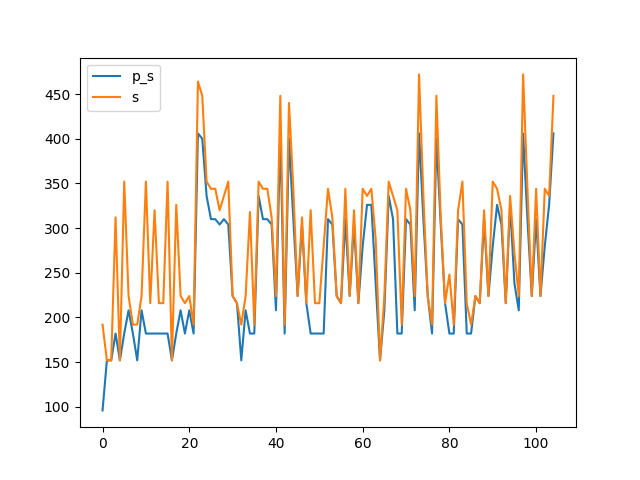
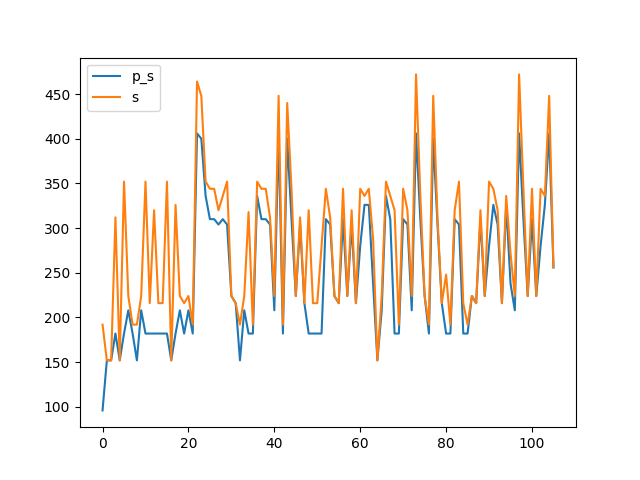
0x0069

diff --git a/benchmark.md b/benchmark.md
@@ -208,16 +208,18 @@ Synthesising 0x0067 pexact:326 r=5 exact:336 r=4
 
 Synthesising 0x0068 pexact:406 r=6 exact:448 r=5
 
+Synthesising 0x0069 pexact:256 r=3 exact:256 r=3
+
 ```mermaid
 xychart-beta
     title "Comparison powertwoexact twoexact"
-    x-axis [0, 1, 2, 3, 4, 5, 6, 7, 8, 9, 10, 11, 12, 13, 14, 15, 16, 17, 18, 19, 20, 21, 22, 23, 24, 25, 26, 27, 28, 29, 30, 31, 32, 33, 34, 35, 36, 37, 38, 39, 40, 41, 42, 43, 44, 45, 46, 47, 48, 49, 50, 51, 52, 53, 54, 55, 56, 57, 58, 59, 60, 61, 62, 63, 64, 65, 66, 67, 68, 69, 70, 71, 72, 73, 74, 75, 76, 77, 78, 79, 80, 81, 82, 83, 84, 85, 86, 87, 88, 89, 90, 91, 92, 93, 94, 95, 96, 97, 98, 99, 100, 101, 102, 103, 104]
+    x-axis [0, 1, 2, 3, 4, 5, 6, 7, 8, 9, 10, 11, 12, 13, 14, 15, 16, 17, 18, 19, 20, 21, 22, 23, 24, 25, 26, 27, 28, 29, 30, 31, 32, 33, 34, 35, 36, 37, 38, 39, 40, 41, 42, 43, 44, 45, 46, 47, 48, 49, 50, 51, 52, 53, 54, 55, 56, 57, 58, 59, 60, 61, 62, 63, 64, 65, 66, 67, 68, 69, 70, 71, 72, 73, 74, 75, 76, 77, 78, 79, 80, 81, 82, 83, 84, 85, 86, 87, 88, 89, 90, 91, 92, 93, 94, 95, 96, 97, 98, 99, 100, 101, 102, 103, 104, 105]
     y-axis "Switching Activity" 0-->472
-    line [96, 152, 152, 182, 152, 182, 208, 182, 152, 208, 182, 182, 182, 182, 182, 182, 152, 182, 208, 182, 208, 182, 406, 400, 336, 310, 310, 304, 310, 304, 224, 216, 152, 208, 182, 182, 336, 310, 310, 304, 208, 406, 182, 400, 310, 224, 304, 216, 182, 182, 182, 182, 310, 304, 224, 216, 310, 224, 304, 216, 280, 326, 326, 238, 152, 208, 336, 310, 182, 182, 310, 304, 208, 406, 310, 224, 182, 400, 304, 216, 182, 182, 310, 304, 182, 182, 224, 216, 310, 224, 280, 326, 304, 216, 326, 238, 208, 406, 310, 224, 310, 224, 280, 326, 406]
-    line [192, 152, 152, 312, 152, 352, 224, 192, 192, 224, 352, 216, 320, 216, 216, 352, 152, 326, 224, 216, 224, 192, 464, 448, 352, 344, 344, 320, 336, 352, 224, 216, 192, 224, 318, 192, 352, 344, 344, 312, 224, 448, 192, 440, 344, 224, 312, 216, 320, 216, 216, 280, 344, 312, 224, 216, 344, 224, 320, 216, 344, 336, 344, 288, 152, 224, 352, 336, 320, 192, 344, 320, 224, 472, 336, 224, 192, 448, 312, 216, 248, 192, 320, 352, 216, 192, 224, 216, 320, 224, 352, 344, 320, 216, 336, 272, 224, 472, 344, 224, 344, 224, 344, 336, 448]
-    line [249.2, 249.2, 249.2, 249.2, 249.2, 249.2, 249.2, 249.2, 249.2, 249.2, 249.2, 249.2, 249.2, 249.2, 249.2, 249.2, 249.2, 249.2, 249.2, 249.2, 249.2, 249.2, 249.2, 249.2, 249.2, 249.2, 249.2, 249.2, 249.2, 249.2, 249.2, 249.2, 249.2, 249.2, 249.2, 249.2, 249.2, 249.2, 249.2, 249.2, 249.2, 249.2, 249.2, 249.2, 249.2, 249.2, 249.2, 249.2, 249.2, 249.2, 249.2, 249.2, 249.2, 249.2, 249.2, 249.2, 249.2, 249.2, 249.2, 249.2, 249.2, 249.2, 249.2, 249.2, 249.2, 249.2, 249.2, 249.2, 249.2, 249.2, 249.2, 249.2, 249.2, 249.2, 249.2, 249.2, 249.2, 249.2, 249.2, 249.2, 249.2, 249.2, 249.2, 249.2, 249.2, 249.2, 249.2, 249.2, 249.2, 249.2, 249.2, 249.2, 249.2, 249.2, 249.2, 249.2, 249.2, 249.2, 249.2, 249.2, 249.2, 249.2, 249.2, 249.2, 249.2]
-    line [283.23809523809524, 283.23809523809524, 283.23809523809524, 283.23809523809524, 283.23809523809524, 283.23809523809524, 283.23809523809524, 283.23809523809524, 283.23809523809524, 283.23809523809524, 283.23809523809524, 283.23809523809524, 283.23809523809524, 283.23809523809524, 283.23809523809524, 283.23809523809524, 283.23809523809524, 283.23809523809524, 283.23809523809524, 283.23809523809524, 283.23809523809524, 283.23809523809524, 283.23809523809524, 283.23809523809524, 283.23809523809524, 283.23809523809524, 283.23809523809524, 283.23809523809524, 283.23809523809524, 283.23809523809524, 283.23809523809524, 283.23809523809524, 283.23809523809524, 283.23809523809524, 283.23809523809524, 283.23809523809524, 283.23809523809524, 283.23809523809524, 283.23809523809524, 283.23809523809524, 283.23809523809524, 283.23809523809524, 283.23809523809524, 283.23809523809524, 283.23809523809524, 283.23809523809524, 283.23809523809524, 283.23809523809524, 283.23809523809524, 283.23809523809524, 283.23809523809524, 283.23809523809524, 283.23809523809524, 283.23809523809524, 283.23809523809524, 283.23809523809524, 283.23809523809524, 283.23809523809524, 283.23809523809524, 283.23809523809524, 283.23809523809524, 283.23809523809524, 283.23809523809524, 283.23809523809524, 283.23809523809524, 283.23809523809524, 283.23809523809524, 283.23809523809524, 283.23809523809524, 283.23809523809524, 283.23809523809524, 283.23809523809524, 283.23809523809524, 283.23809523809524, 283.23809523809524, 283.23809523809524, 283.23809523809524, 283.23809523809524, 283.23809523809524, 283.23809523809524, 283.23809523809524, 283.23809523809524, 283.23809523809524, 283.23809523809524, 283.23809523809524, 283.23809523809524, 283.23809523809524, 283.23809523809524, 283.23809523809524, 283.23809523809524, 283.23809523809524, 283.23809523809524, 283.23809523809524, 283.23809523809524, 283.23809523809524, 283.23809523809524, 283.23809523809524, 283.23809523809524, 283.23809523809524, 283.23809523809524, 283.23809523809524, 283.23809523809524, 283.23809523809524, 283.23809523809524, 283.23809523809524]
-    bar [80, 60, 60, 80, 60, 80, 80, 80, 60, 80, 80, 80, 80, 80, 80, 80, 60, 80, 80, 80, 80, 80, 120, 120, 100, 100, 100, 100, 100, 100, 60, 60, 60, 80, 80, 80, 100, 100, 100, 100, 80, 120, 80, 120, 100, 60, 100, 60, 80, 80, 80, 80, 100, 100, 60, 60, 100, 60, 100, 60, 80, 100, 100, 100, 60, 80, 100, 100, 80, 80, 100, 100, 80, 120, 100, 60, 80, 120, 100, 60, 80, 80, 100, 100, 80, 80, 60, 60, 100, 60, 80, 100, 100, 60, 100, 100, 80, 120, 100, 60, 100, 60, 80, 100, 120]
-    bar [80, 60, 60, 80, 60, 80, 60, 60, 60, 60, 80, 60, 80, 60, 60, 80, 60, 80, 60, 60, 60, 60, 100, 100, 80, 80, 80, 80, 80, 80, 60, 60, 60, 60, 80, 60, 80, 80, 80, 80, 60, 100, 60, 100, 80, 60, 80, 60, 80, 60, 60, 80, 80, 80, 60, 60, 80, 60, 80, 60, 80, 80, 80, 80, 60, 60, 80, 80, 80, 60, 80, 80, 60, 100, 80, 60, 60, 100, 80, 60, 80, 60, 80, 80, 60, 80, 60, 60, 80, 60, 80, 80, 80, 60, 80, 80, 60, 100, 80, 60, 80, 60, 80, 80, 100]
+    line [96, 152, 152, 182, 152, 182, 208, 182, 152, 208, 182, 182, 182, 182, 182, 182, 152, 182, 208, 182, 208, 182, 406, 400, 336, 310, 310, 304, 310, 304, 224, 216, 152, 208, 182, 182, 336, 310, 310, 304, 208, 406, 182, 400, 310, 224, 304, 216, 182, 182, 182, 182, 310, 304, 224, 216, 310, 224, 304, 216, 280, 326, 326, 238, 152, 208, 336, 310, 182, 182, 310, 304, 208, 406, 310, 224, 182, 400, 304, 216, 182, 182, 310, 304, 182, 182, 224, 216, 310, 224, 280, 326, 304, 216, 326, 238, 208, 406, 310, 224, 310, 224, 280, 326, 406, 256]
+    line [192, 152, 152, 312, 152, 352, 224, 192, 192, 224, 352, 216, 320, 216, 216, 352, 152, 326, 224, 216, 224, 192, 464, 448, 352, 344, 344, 320, 336, 352, 224, 216, 192, 224, 318, 192, 352, 344, 344, 312, 224, 448, 192, 440, 344, 224, 312, 216, 320, 216, 216, 280, 344, 312, 224, 216, 344, 224, 320, 216, 344, 336, 344, 288, 152, 224, 352, 336, 320, 192, 344, 320, 224, 472, 336, 224, 192, 448, 312, 216, 248, 192, 320, 352, 216, 192, 224, 216, 320, 224, 352, 344, 320, 216, 336, 272, 224, 472, 344, 224, 344, 224, 344, 336, 448, 256]
+    line [249.26415094339623, 249.26415094339623, 249.26415094339623, 249.26415094339623, 249.26415094339623, 249.26415094339623, 249.26415094339623, 249.26415094339623, 249.26415094339623, 249.26415094339623, 249.26415094339623, 249.26415094339623, 249.26415094339623, 249.26415094339623, 249.26415094339623, 249.26415094339623, 249.26415094339623, 249.26415094339623, 249.26415094339623, 249.26415094339623, 249.26415094339623, 249.26415094339623, 249.26415094339623, 249.26415094339623, 249.26415094339623, 249.26415094339623, 249.26415094339623, 249.26415094339623, 249.26415094339623, 249.26415094339623, 249.26415094339623, 249.26415094339623, 249.26415094339623, 249.26415094339623, 249.26415094339623, 249.26415094339623, 249.26415094339623, 249.26415094339623, 249.26415094339623, 249.26415094339623, 249.26415094339623, 249.26415094339623, 249.26415094339623, 249.26415094339623, 249.26415094339623, 249.26415094339623, 249.26415094339623, 249.26415094339623, 249.26415094339623, 249.26415094339623, 249.26415094339623, 249.26415094339623, 249.26415094339623, 249.26415094339623, 249.26415094339623, 249.26415094339623, 249.26415094339623, 249.26415094339623, 249.26415094339623, 249.26415094339623, 249.26415094339623, 249.26415094339623, 249.26415094339623, 249.26415094339623, 249.26415094339623, 249.26415094339623, 249.26415094339623, 249.26415094339623, 249.26415094339623, 249.26415094339623, 249.26415094339623, 249.26415094339623, 249.26415094339623, 249.26415094339623, 249.26415094339623, 249.26415094339623, 249.26415094339623, 249.26415094339623, 249.26415094339623, 249.26415094339623, 249.26415094339623, 249.26415094339623, 249.26415094339623, 249.26415094339623, 249.26415094339623, 249.26415094339623, 249.26415094339623, 249.26415094339623, 249.26415094339623, 249.26415094339623, 249.26415094339623, 249.26415094339623, 249.26415094339623, 249.26415094339623, 249.26415094339623, 249.26415094339623, 249.26415094339623, 249.26415094339623, 249.26415094339623, 249.26415094339623, 249.26415094339623, 249.26415094339623, 249.26415094339623, 249.26415094339623, 249.26415094339623, 249.26415094339623]
+    line [282.9811320754717, 282.9811320754717, 282.9811320754717, 282.9811320754717, 282.9811320754717, 282.9811320754717, 282.9811320754717, 282.9811320754717, 282.9811320754717, 282.9811320754717, 282.9811320754717, 282.9811320754717, 282.9811320754717, 282.9811320754717, 282.9811320754717, 282.9811320754717, 282.9811320754717, 282.9811320754717, 282.9811320754717, 282.9811320754717, 282.9811320754717, 282.9811320754717, 282.9811320754717, 282.9811320754717, 282.9811320754717, 282.9811320754717, 282.9811320754717, 282.9811320754717, 282.9811320754717, 282.9811320754717, 282.9811320754717, 282.9811320754717, 282.9811320754717, 282.9811320754717, 282.9811320754717, 282.9811320754717, 282.9811320754717, 282.9811320754717, 282.9811320754717, 282.9811320754717, 282.9811320754717, 282.9811320754717, 282.9811320754717, 282.9811320754717, 282.9811320754717, 282.9811320754717, 282.9811320754717, 282.9811320754717, 282.9811320754717, 282.9811320754717, 282.9811320754717, 282.9811320754717, 282.9811320754717, 282.9811320754717, 282.9811320754717, 282.9811320754717, 282.9811320754717, 282.9811320754717, 282.9811320754717, 282.9811320754717, 282.9811320754717, 282.9811320754717, 282.9811320754717, 282.9811320754717, 282.9811320754717, 282.9811320754717, 282.9811320754717, 282.9811320754717, 282.9811320754717, 282.9811320754717, 282.9811320754717, 282.9811320754717, 282.9811320754717, 282.9811320754717, 282.9811320754717, 282.9811320754717, 282.9811320754717, 282.9811320754717, 282.9811320754717, 282.9811320754717, 282.9811320754717, 282.9811320754717, 282.9811320754717, 282.9811320754717, 282.9811320754717, 282.9811320754717, 282.9811320754717, 282.9811320754717, 282.9811320754717, 282.9811320754717, 282.9811320754717, 282.9811320754717, 282.9811320754717, 282.9811320754717, 282.9811320754717, 282.9811320754717, 282.9811320754717, 282.9811320754717, 282.9811320754717, 282.9811320754717, 282.9811320754717, 282.9811320754717, 282.9811320754717, 282.9811320754717, 282.9811320754717, 282.9811320754717]
+    bar [80, 60, 60, 80, 60, 80, 80, 80, 60, 80, 80, 80, 80, 80, 80, 80, 60, 80, 80, 80, 80, 80, 120, 120, 100, 100, 100, 100, 100, 100, 60, 60, 60, 80, 80, 80, 100, 100, 100, 100, 80, 120, 80, 120, 100, 60, 100, 60, 80, 80, 80, 80, 100, 100, 60, 60, 100, 60, 100, 60, 80, 100, 100, 100, 60, 80, 100, 100, 80, 80, 100, 100, 80, 120, 100, 60, 80, 120, 100, 60, 80, 80, 100, 100, 80, 80, 60, 60, 100, 60, 80, 100, 100, 60, 100, 100, 80, 120, 100, 60, 100, 60, 80, 100, 120, 60]
+    bar [80, 60, 60, 80, 60, 80, 60, 60, 60, 60, 80, 60, 80, 60, 60, 80, 60, 80, 60, 60, 60, 60, 100, 100, 80, 80, 80, 80, 80, 80, 60, 60, 60, 60, 80, 60, 80, 80, 80, 80, 60, 100, 60, 100, 80, 60, 80, 60, 80, 60, 60, 80, 80, 80, 60, 60, 80, 60, 80, 60, 80, 80, 80, 80, 60, 60, 80, 80, 80, 60, 80, 80, 60, 100, 80, 60, 60, 100, 80, 60, 80, 60, 80, 80, 60, 80, 60, 60, 80, 60, 80, 80, 80, 60, 80, 80, 60, 100, 80, 60, 80, 60, 80, 80, 100, 60]
 ```
 
